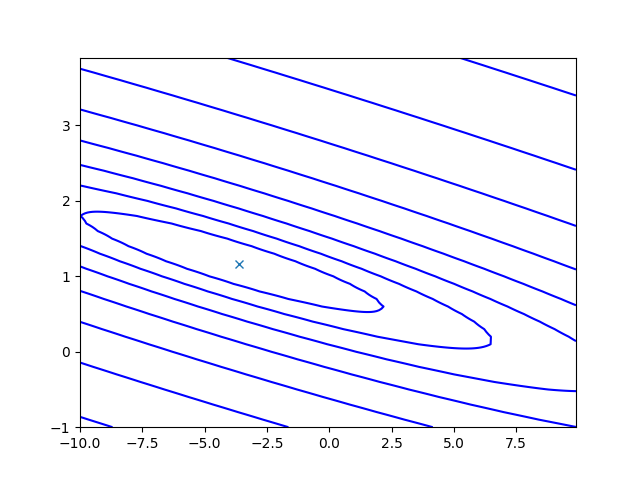
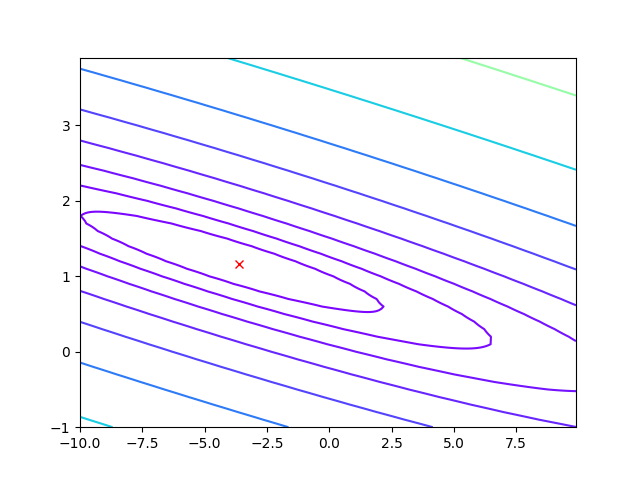
rainbow

diff --git a/P1/Regresion.py b/P1/Regresion.py
@@ -1,8 +1,10 @@
 import time
+from matplotlib import colors
 import numpy as np
 import scipy.integrate
 import matplotlib.pyplot as plt
 from pandas.io.parsers import read_csv
+from mpl_toolkits.mplot3d import Axes3D
 
 
 def carga_csv(file_name):
@@ -65,6 +67,15 @@ t1=[-1,4]
 puntito=regresion()
 c = make_data(t0,t1,X,Y)
 
-plt.plot(puntito[0],puntito[1], "x")
-plt.contour(c[0],c[1],c[2], np.logspace(-2, 3, 20), colors='blue') # cmap='rainbow'
-plt.savefig("contorno.png")  
+plt.plot(puntito[0],puntito[1], "x", color='red')
+plt.contour(c[0],c[1],c[2], np.logspace(-2, 3, 20), cmap='rainbow')
+plt.savefig("contorno.png") 
+
+plt.clf()
+
+fig = plt.figure()
+ax = Axes3D(fig)
+
+surf = ax.plot_surface(c[0],c[1],c[2], cmap='rainbow',linewidth=0, antialiased=False)
+
+plt.savefig("superficie.png") 
